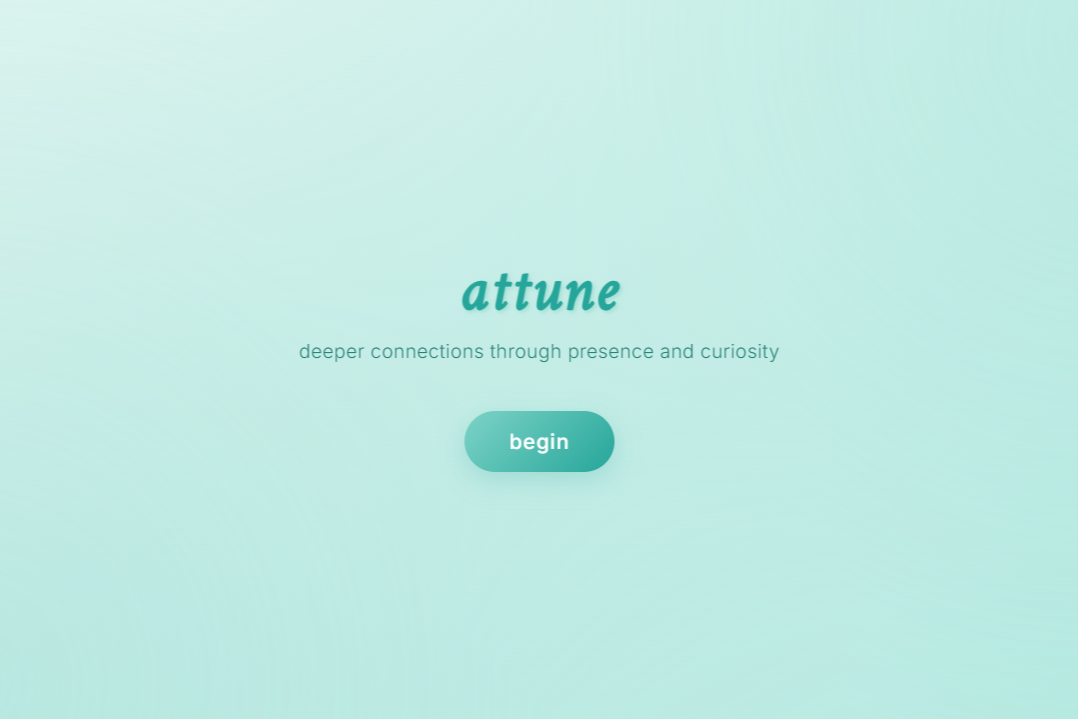
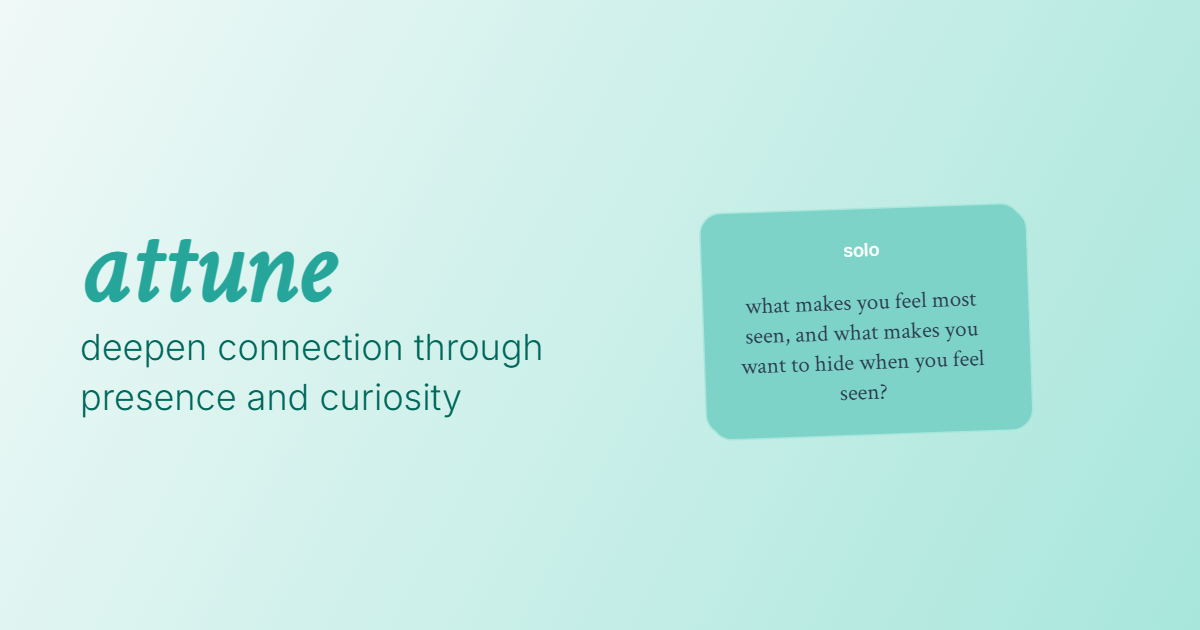
commit

Changed region(s): [[0.0, 0.1206, 0.8571, 1.0]]

diff --git a/attune/social-preview-generator.html b/attune/social-preview-generator.html
@@ -246,62 +246,35 @@
             ctx.fillStyle = gradient;
             ctx.fillRect(0, 0, 1200, 630);
             
-            // Add subtle background circles
-            ctx.globalAlpha = 0.2;
-            
-            // Circle 1
-            const grad1 = ctx.createRadialGradient(180, 535, 0, 180, 535, 200);
-            grad1.addColorStop(0, '#7dd3c7');
-            grad1.addColorStop(1, 'transparent');
-            ctx.fillStyle = grad1;
-            ctx.fillRect(0, 0, 1200, 630);
-            
-            // Circle 2  
-            const grad2 = ctx.createRadialGradient(1020, 95, 0, 1020, 95, 200);
-            grad2.addColorStop(0, '#a8e6dc');
-            grad2.addColorStop(1, 'transparent');
-            ctx.fillStyle = grad2;
-            ctx.fillRect(0, 0, 1200, 630);
-            
-            // IMPORTANT: Reset globalAlpha to 1 for all subsequent drawing
-            ctx.globalAlpha = 1;
-            
             // Draw title "Attune"
             ctx.fillStyle = '#26a69a';
             ctx.font = 'italic 600 110px "Crimson Text", serif';
             ctx.textAlign = 'left';
-            ctx.fillText('Attune', 80, 200);
+            ctx.fillText('attune', 80, 300);
             
             // Draw tagline
             ctx.fillStyle = '#00695c';
             ctx.font = '300 36px "Inter", sans-serif';
-            ctx.fillText('deepen connection through', 80, 260);
-            ctx.fillText('presence and curiosity', 80, 310);
+            ctx.fillText('deepen connection through', 80, 360);
+            ctx.fillText('presence and curiosity', 80, 410);
             
             // Draw begin button
-            const buttonGrad = ctx.createLinearGradient(80, 370, 230, 420);
-            buttonGrad.addColorStop(0, '#7dd3c7');
-            buttonGrad.addColorStop(1, '#26a69a');
+            // const buttonGrad = ctx.createLinearGradient(80, 370, 230, 420);
+            // buttonGrad.addColorStop(0, '#7dd3c7');
+            // buttonGrad.addColorStop(1, '#26a69a');
             
-            ctx.fillStyle = buttonGrad;
-            ctx.roundRect(80, 370, 150, 50, 25);
-            ctx.fill();
+            // ctx.fillStyle = buttonGrad;
+            // ctx.roundRect(80, 420, 150, 50, 25);
+            // ctx.fill();
             
-            // Debug: Draw a test rectangle to see if anything is working
-            ctx.fillStyle = '#ff0000';
-            ctx.fillRect(140, 385, 30, 20); // Small red rectangle where text should be
-            
-            // Test with a system font that's guaranteed to work
-            ctx.fillStyle = '#0000ff'; // Blue text for contrast
-            ctx.font = 'bold 30px Arial';
-            ctx.textAlign = 'center';
-            console.log('About to draw text at:', 155, 398);
-            ctx.fillText('begin', 155, 398);
-            console.log('Text drawn');
+            // ctx.fillStyle = 'white';
+            // ctx.font = '500 30px "Inter", sans-serif';
+            // ctx.textAlign = 'center';
+            // ctx.fillText('begin', 155, 452);
             
             // Draw card background with rotation
             ctx.save();
-            ctx.translate(800, 315);
+            ctx.translate(700, 215);
             ctx.rotate(-0.035); // -2 degrees in radians
             
             // Card shadow
@@ -332,7 +305,7 @@
             ctx.fillStyle = 'white';
             ctx.font = '500 18px "Inter", sans-serif';
             ctx.textAlign = 'center';
-            ctx.fillText('everyone', 160, 47);
+            ctx.fillText('solo', 160, 47);
             
             // Card text
             ctx.fillStyle = '#2c3e50';
@@ -340,7 +313,7 @@
             ctx.textAlign = 'center';
             
             // Wrap text manually
-            const text = 'What makes you feel most seen, and what makes you want to hide when you feel seen?';
+            const text = 'what makes you feel most seen, and what makes you want to hide when you feel seen?';
             const words = text.split(' ');
             let line = '';
             let y = 100;
